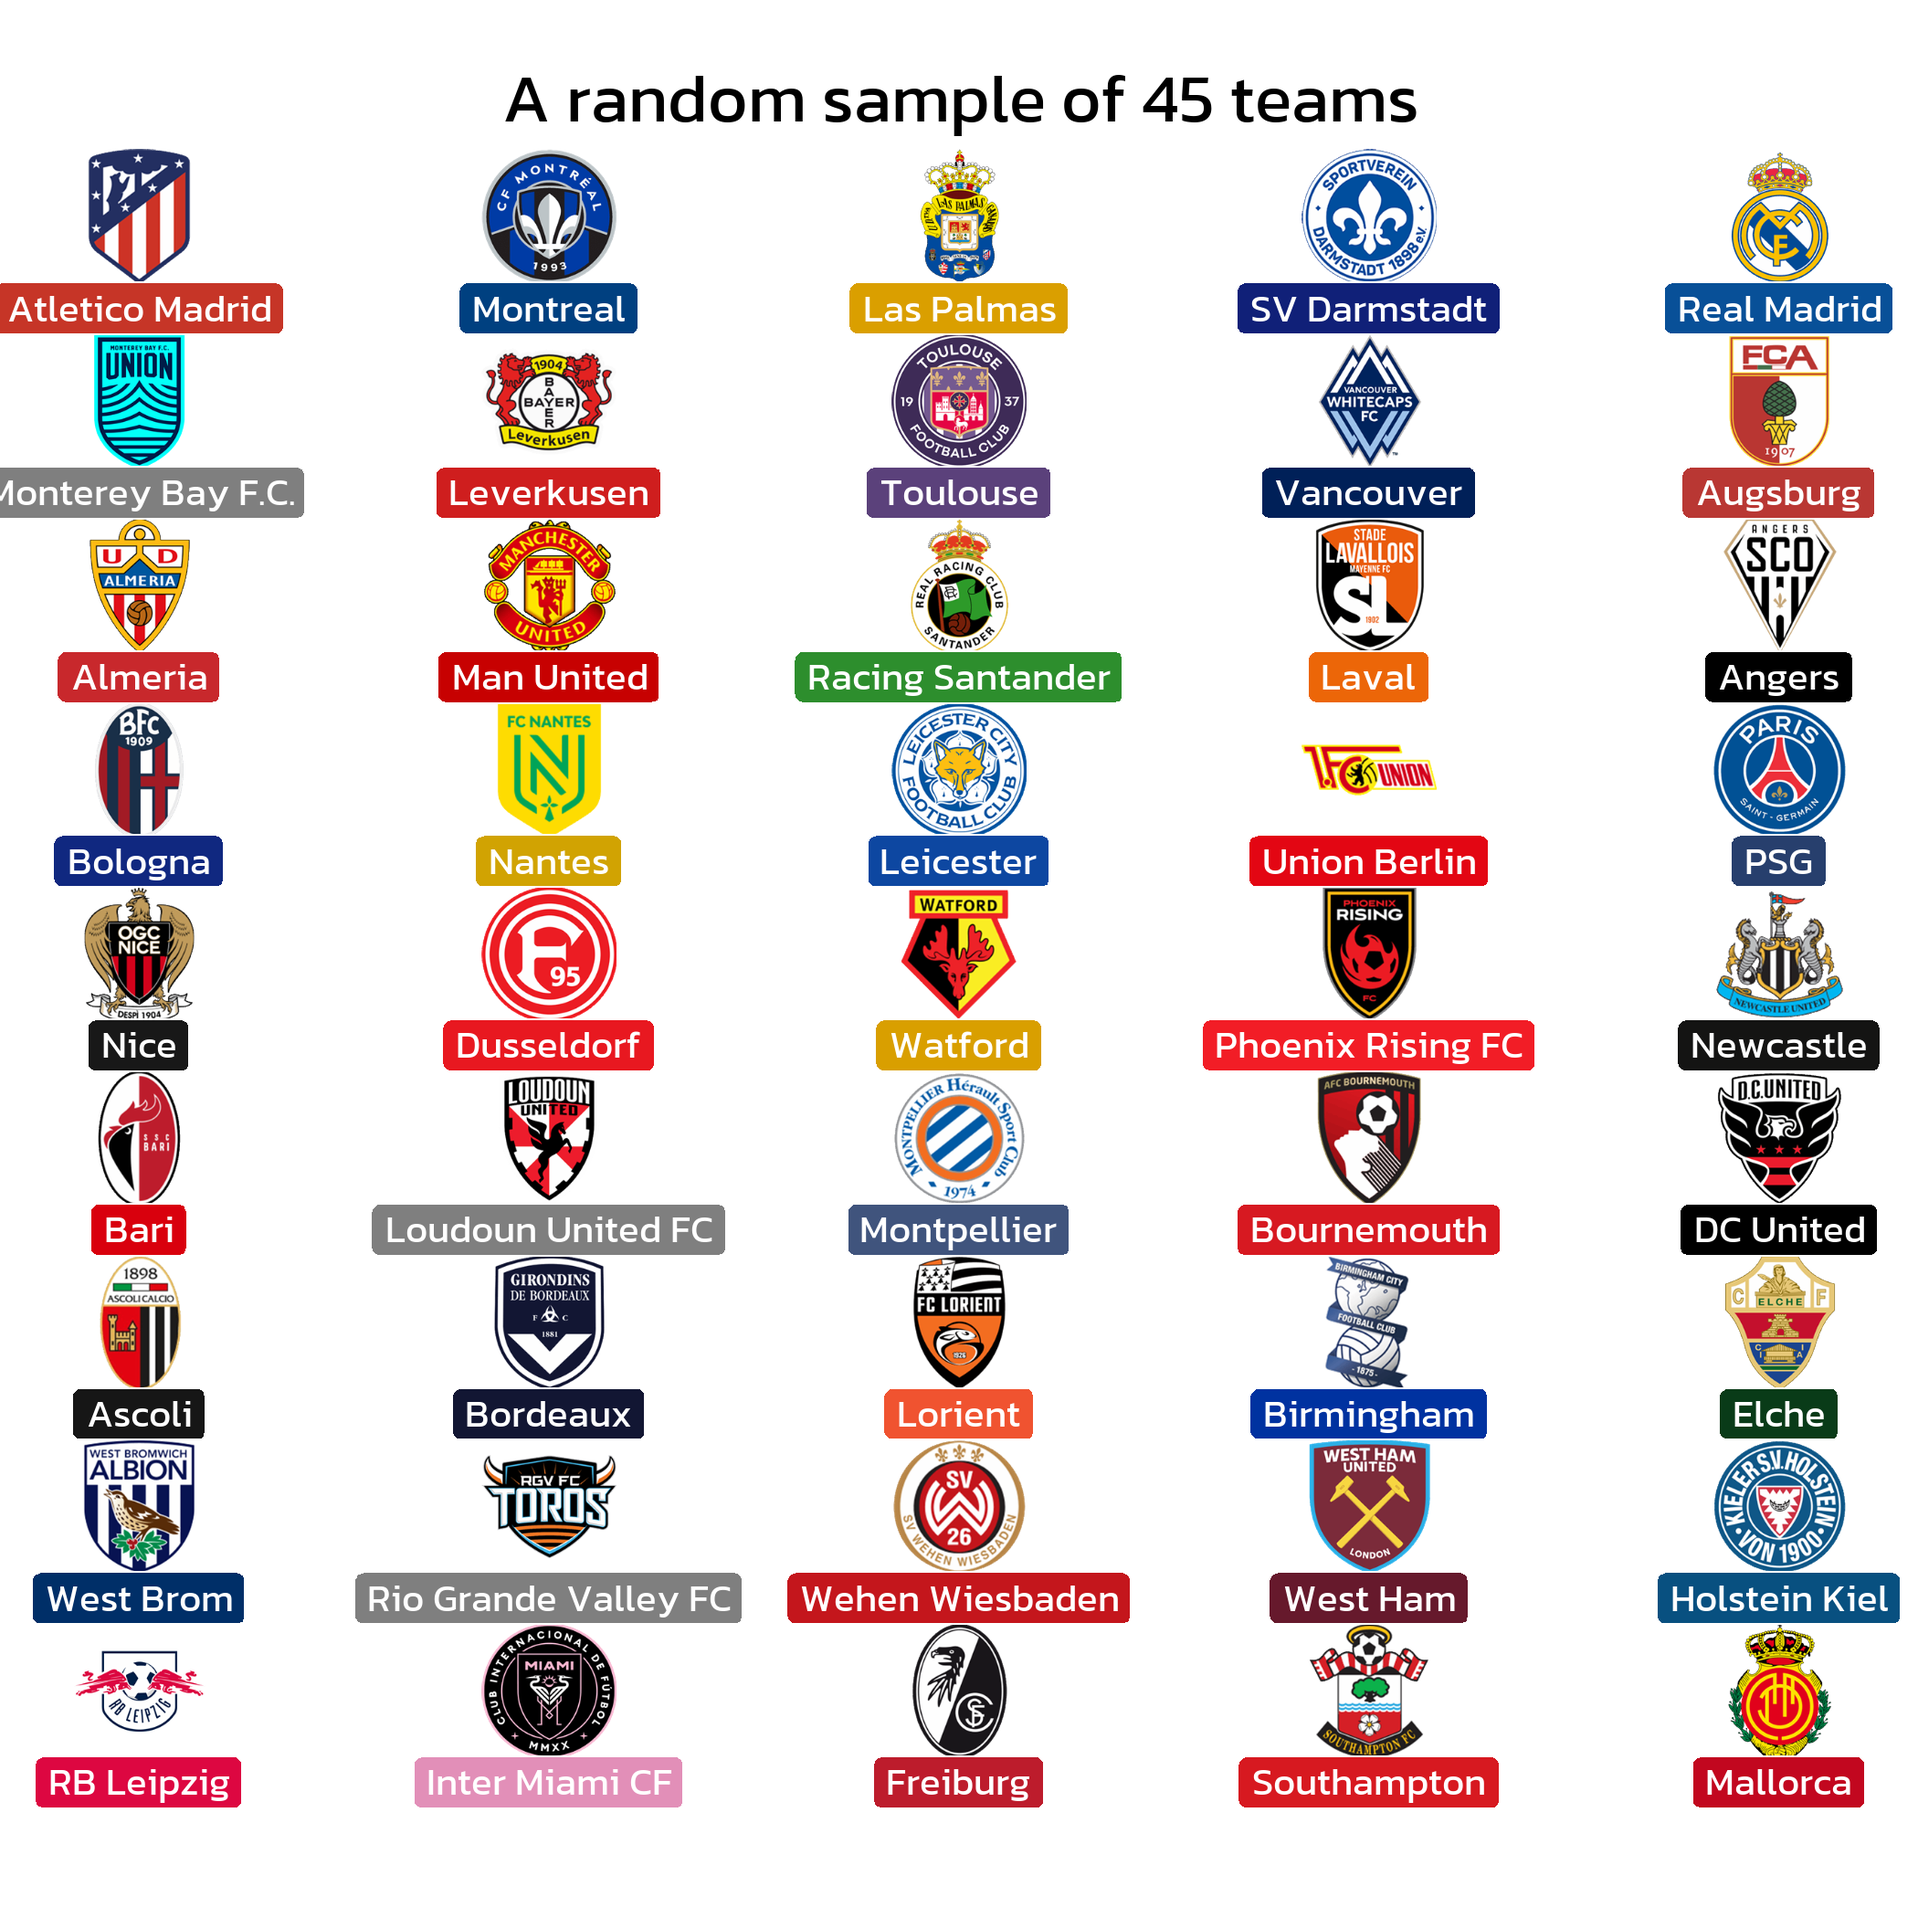
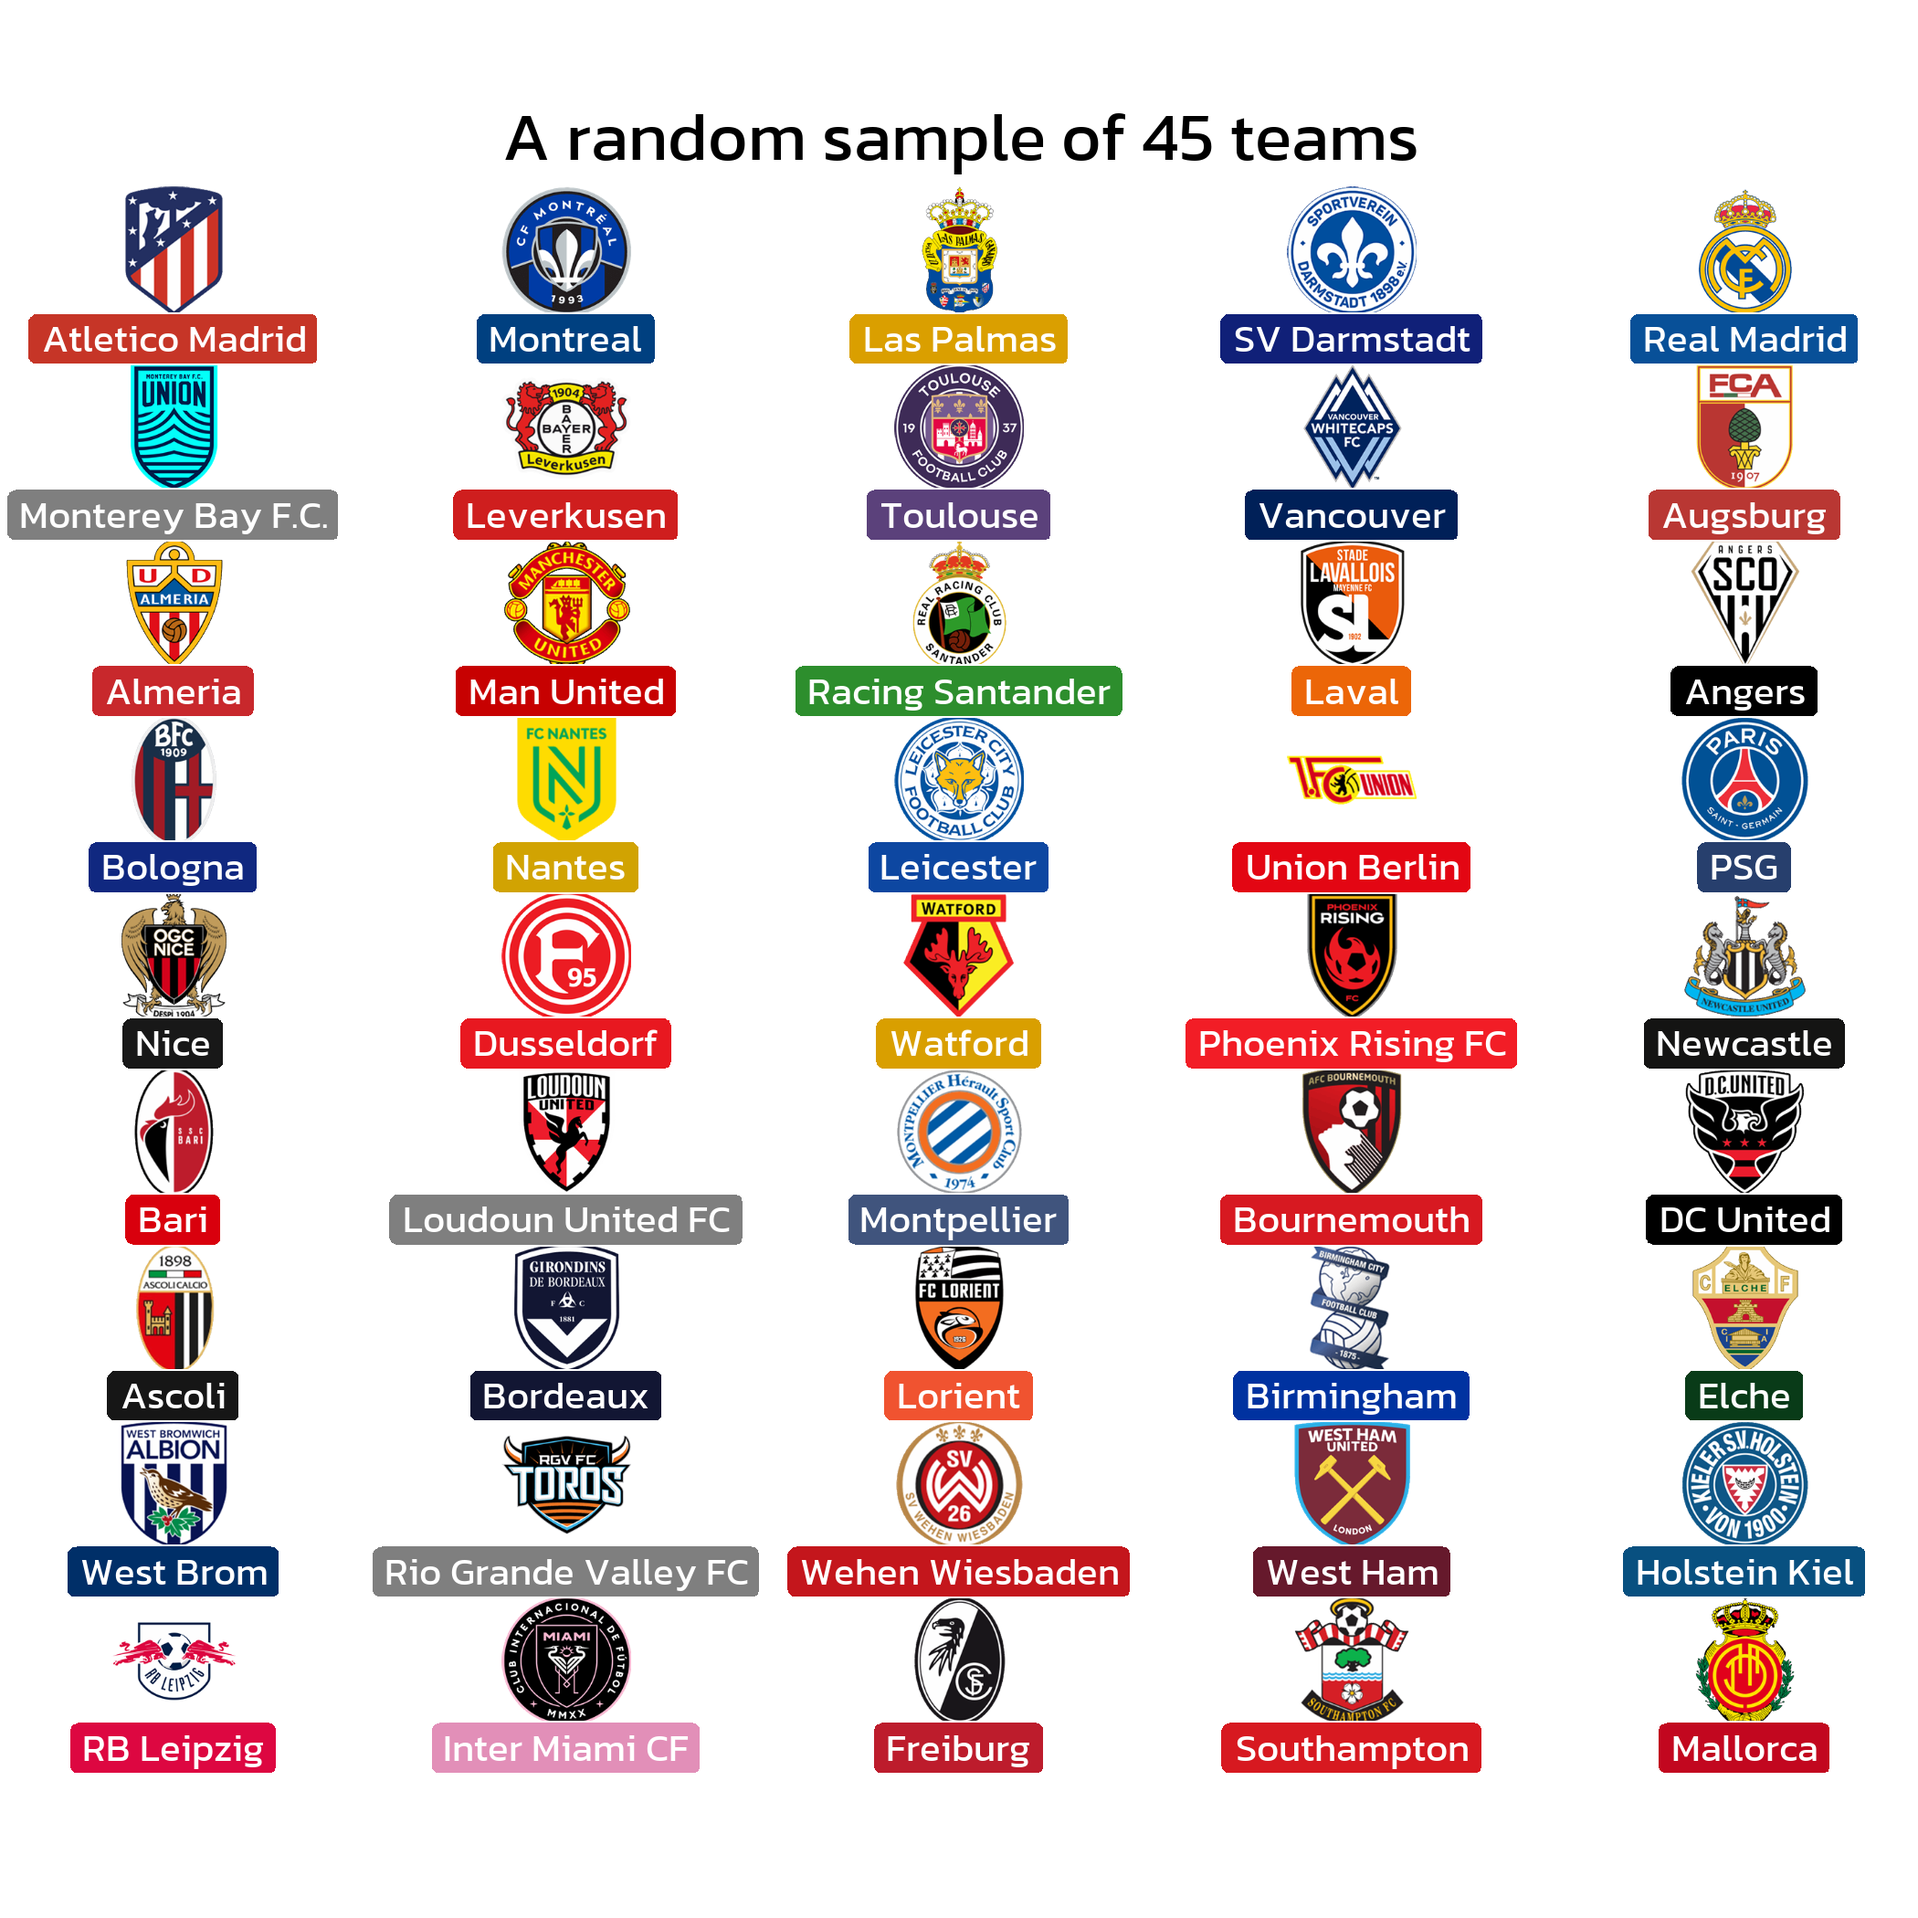
update readme

Changed region(s): [[0.1857, 0.031, 0.8048, 0.9595], [0.0, 0.0619, 0.1857, 0.9595], [0.8357, 0.0619, 0.9905, 0.9595]]

diff --git a/README.md b/README.md
@@ -41,7 +41,7 @@ sysfonts::font_add_google(FONT)
 showtext::showtext_auto()
 showtext::showtext_opts(dpi = 300)
 
-team_names <- unlist(unname(soccerplotR::valid_team_names()))
+team_names <- unlist(unname(soccerplotR::all_valid_team_names()))
 set.seed(42)
 sampled_team_names <- sample(team_names, size = 45)
 
@@ -75,7 +75,7 @@ ggplot(df) +
   scale_fill_soccer(type = 'primary') +
   theme_void() +
   theme(
-    plot.margin = margin(15, 15, 15, 15, 'pt')
+    plot.margin = margin(25, 25, 25, 25, 'pt')
   ) +
   coord_cartesian(clip = 'off') +
   labs(
